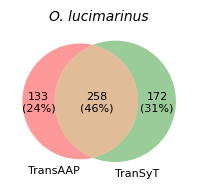
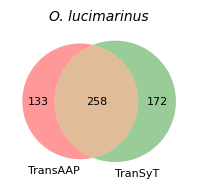
[FIX] remove percentage from venn

Changed region(s): [[0.697, 0.4787, 0.8788, 0.6117], [0.3939, 0.4787, 0.5758, 0.6117], [0.0909, 0.4787, 0.303, 0.6117]]

diff --git a/code/results_analysis.py b/code/results_analysis.py
@@ -197,8 +197,8 @@ def venn_diagram(case_study_results, case_study, parameter_set):
     plt.clf()
     plt.figure(figsize=(2.3, 2.3))
     total = len(set(case_study_results[1].keys()).union(set(case_study_results[2].keys())))
-    venn2([set(case_study_results[1].keys()), set(case_study_results[2].keys())], set_labels=('TransAAP', 'TranSyT'),
-          subset_label_formatter=lambda x: str(x) + "\n(" + f"{(x/total):1.0%}" + ")")
+    venn2([set(case_study_results[1].keys()), set(case_study_results[2].keys())], set_labels=('TransAAP', 'TranSyT'))
+          # subset_label_formatter=lambda x: str(x) + "\n(" + f"{(x/total):1.0%}" + ")")
     plt.title(case_study[0] + ". " + ''.join(case_study[1:]), fontstyle='italic', fontsize=10) # + " - " + parameter_set
     # set fontsize
     for text in plt.gca().texts:
